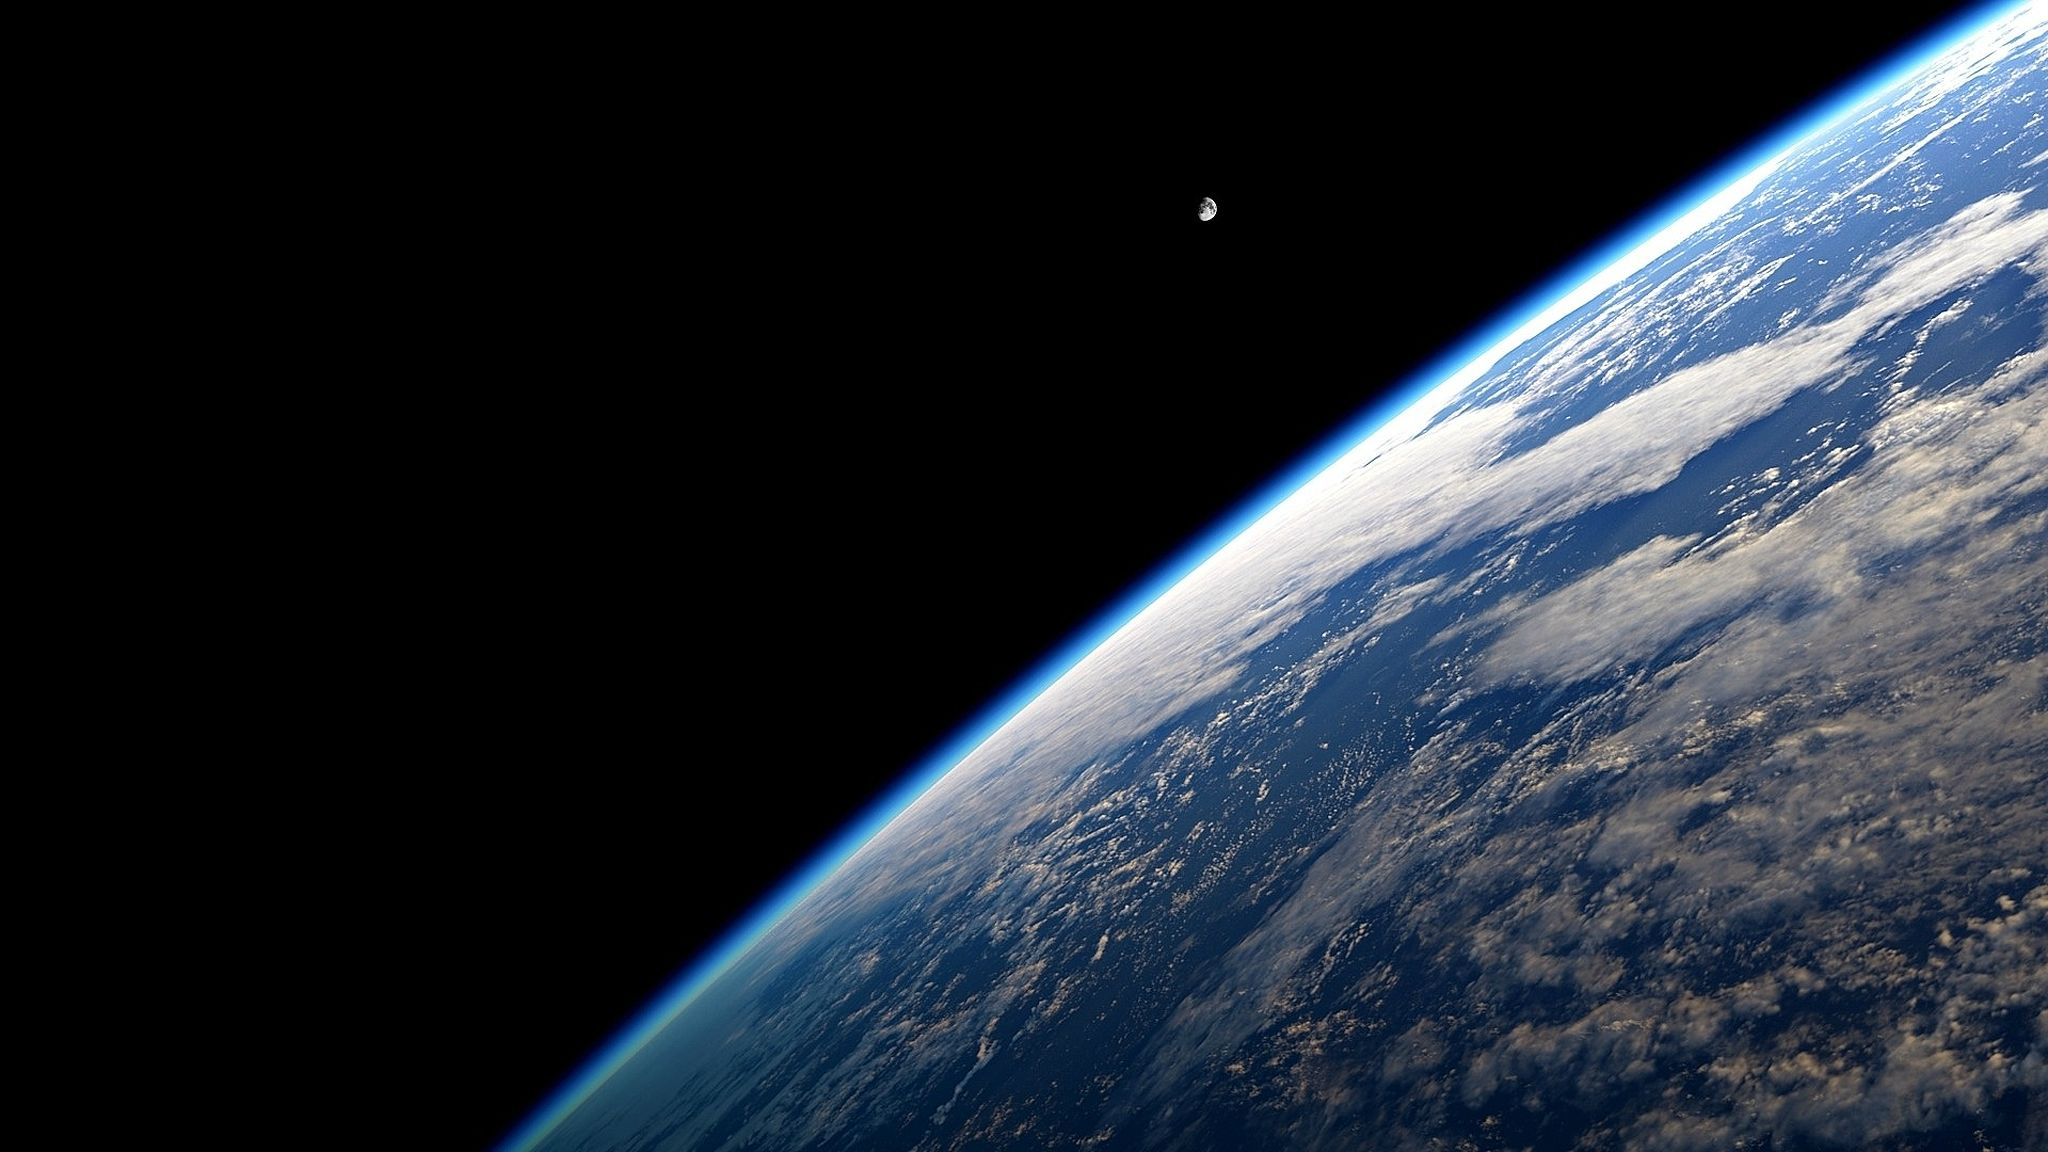
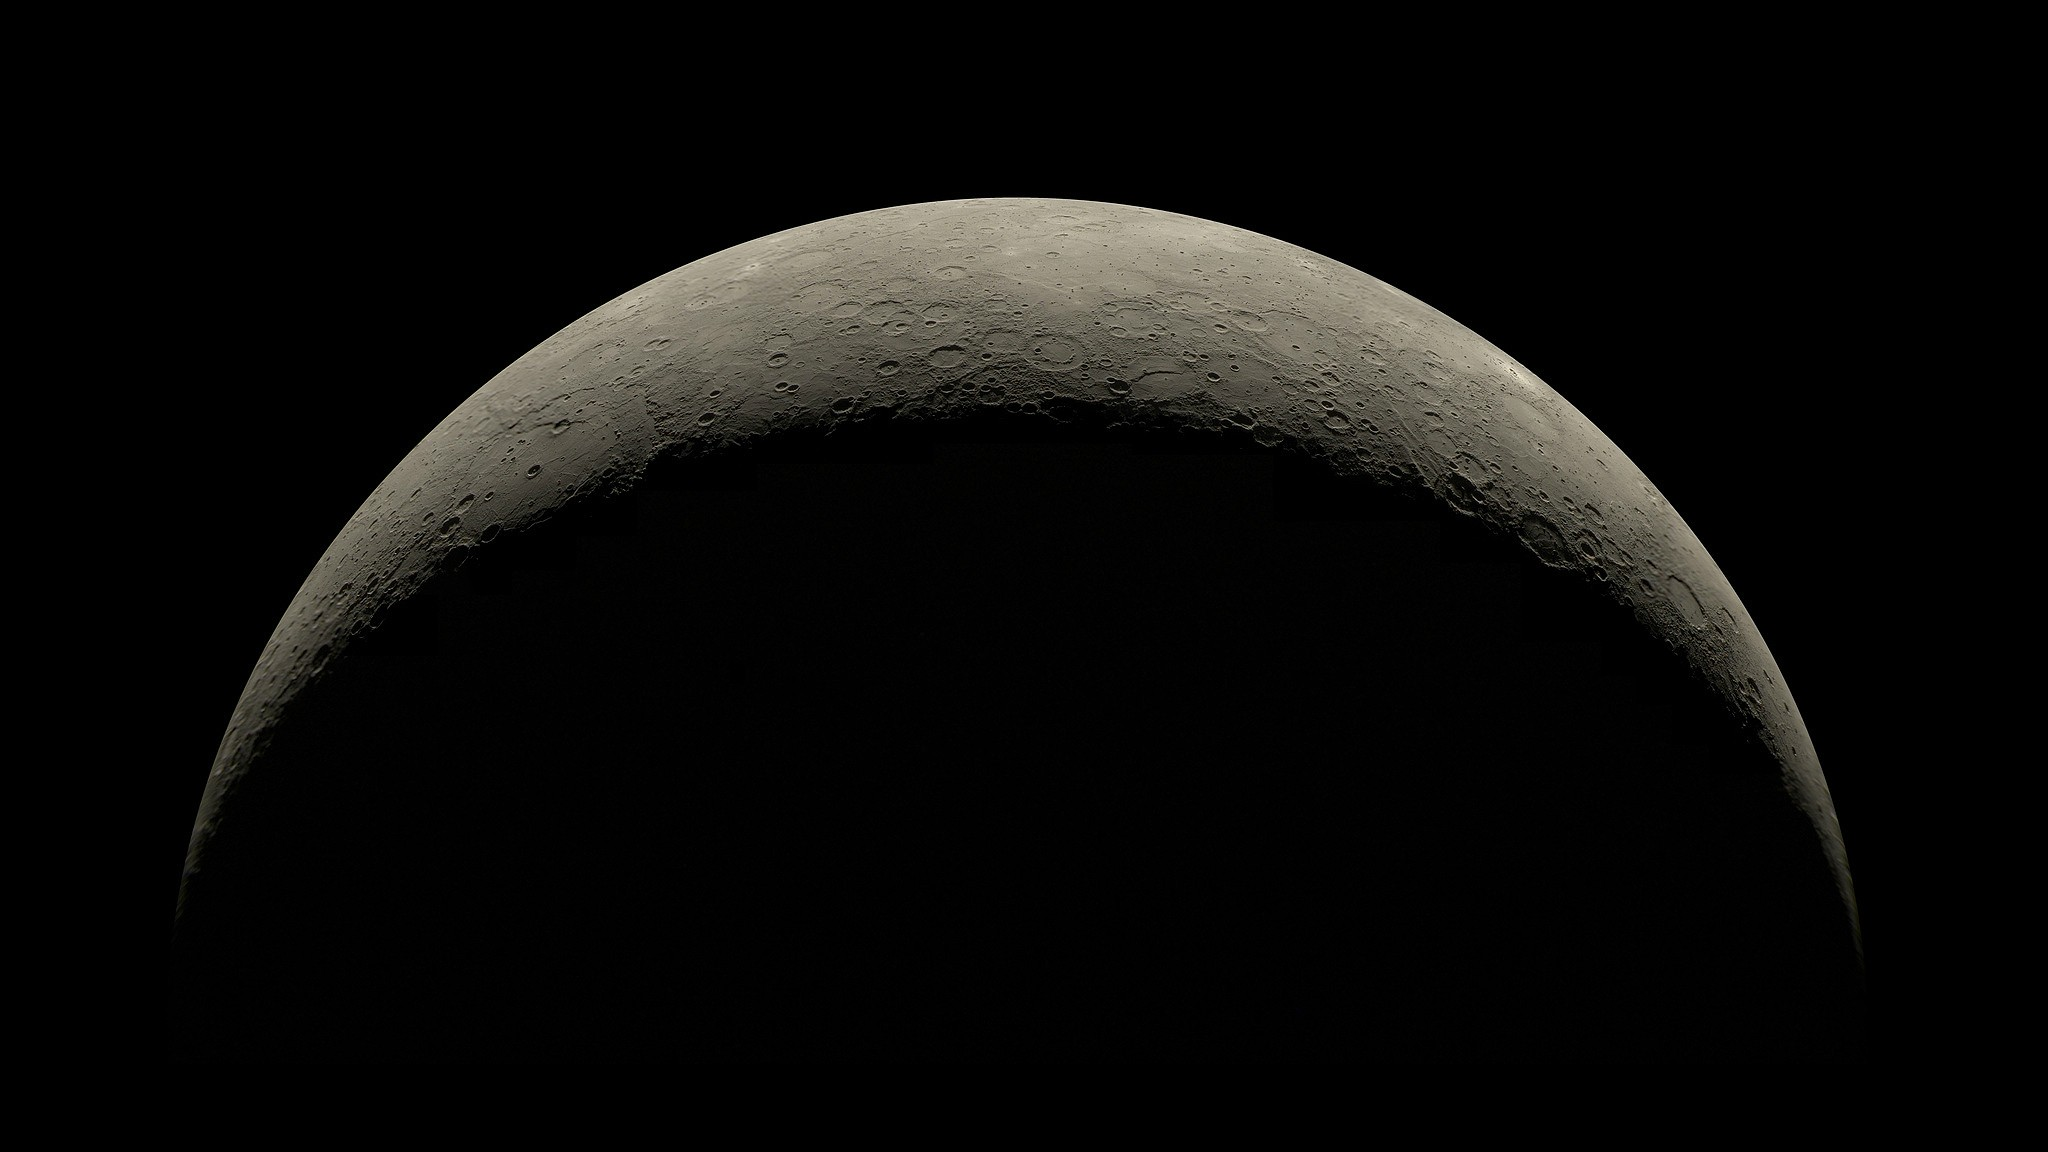
versiune finala
am inlaturat poze pe care nu le folosesc

diff --git a/index.html b/index.html
@@ -9,7 +9,7 @@
 </head>
 <body class="min-h-screen bg-slate-900 text-slate-100 font-mono antialiased">
 
-  <section id="ecran-splash" class="ecran ecran-splash min-h-screen flex flex-col items-center justify-center p-6 gap-6" style="background-image:url('poze/aiabuna.jpeg')">
+  <section id="ecran-splash" class="ecran ecran-splash min-h-screen flex flex-col items-center justify-center p-6 gap-6" style="background-image:url('poze/background.jpeg')">
     <div class="splash-setari-wrap">
       <button type="button" id="btn-splash-setari" class="btn-splash-setari" aria-label="Setări">
         <i data-lucide="settings" class="icon-lucide" aria-hidden="true"></i>